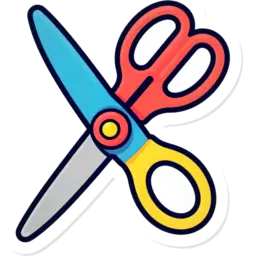
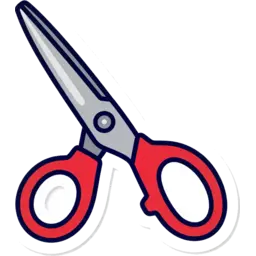
Ciseaux à deux poignées, cigale verte sur sa branche

diff --git a/outils/images.py b/outils/images.py
@@ -82,13 +82,17 @@ DESSINS = {
     "chaton": "a cute kitten sitting",
     "chou": "a green cabbage",
     "ciel": "a blue sky with a smiling sun and white fluffy clouds, in a rounded square frame",
-    "cigale": "a cicada insect with transparent wings",
+    "cigale": (
+        "a green cicada seen from the side, sitting on a tree branch, big eyes on the sides of a wide head, clear veined wings folded like a roof over its body"
+    ),
     "cigogne": "a white stork with black wing tips, long red beak and long red legs",
     "cinq": "the number 5 as a big bold colorful digit",
     "cintre": "a wooden clothes hanger",
     "cinéma": "a cinema clapperboard next to a striped popcorn box",
     "cirque": "a red and white striped circus tent with a flag on top",
-    "ciseaux": "a pair of scissors with colorful handles",
+    "ciseaux": (
+        "a closed pair of children's scissors, side view, two metal blades joined by a screw, two round red finger loops"
+    ),
     "citron": "a yellow lemon with a green leaf",
     "citrouille": "an orange pumpkin",
     "clou": "a hammer hitting a metal nail into a wooden plank",
@@ -211,6 +215,8 @@ GRAINES = {
     "bracelet": 5,
     "drapeau": 5,
     "baignoire": 5,  # graine 1 : un canard qui distrait
+    "ciseaux": 5,  # graine 1 : une lame sans poignée
+    "cigale": 5,  # graine 1 : une abeille
 }
 
 
